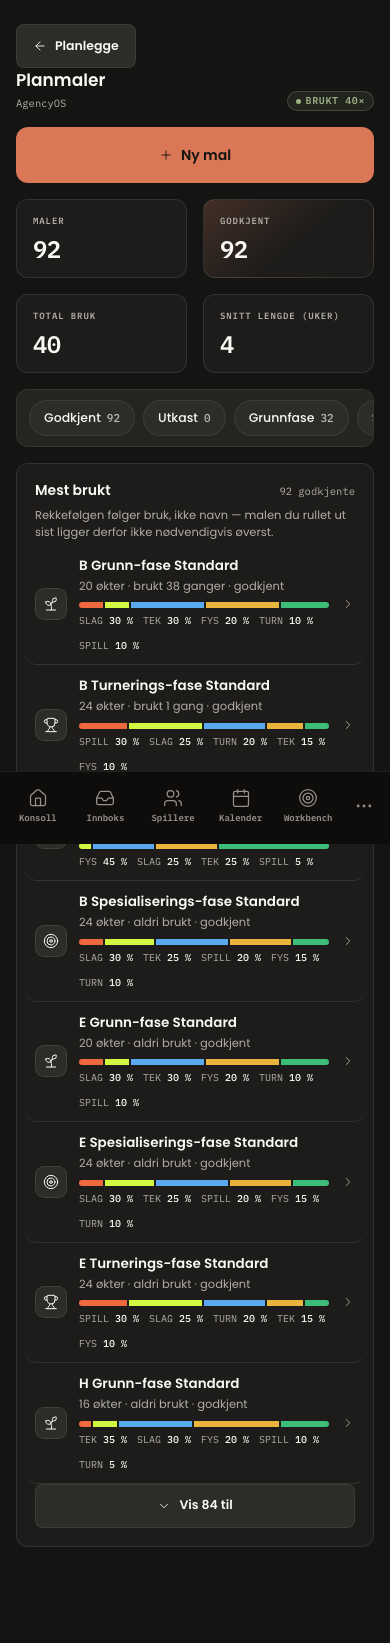
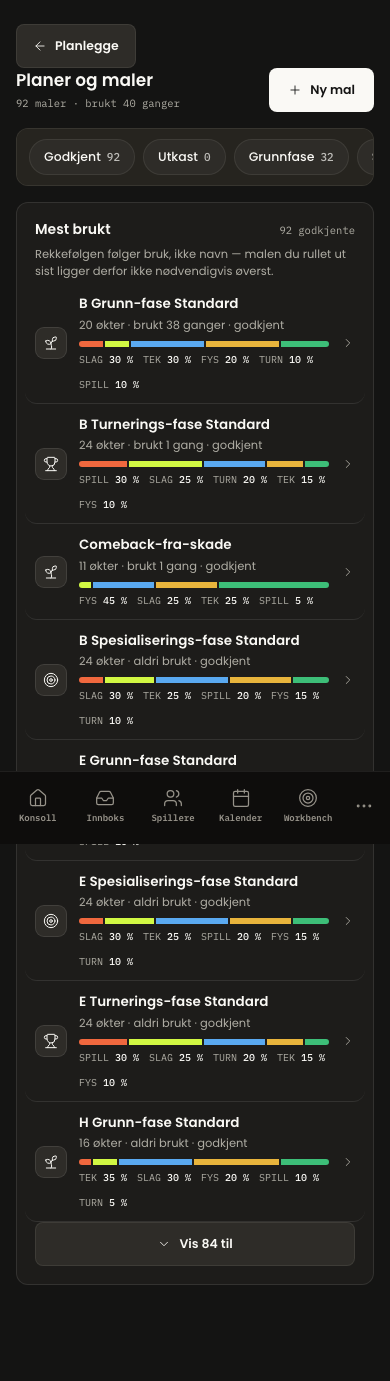
fix(paper): toppen på planbiblioteket følger fasitens .top
Fasiten har tittel + tellende undertittel til venstre og handlingen til
høyre. Appen hadde i tillegg fire KPI-fliser og en oransje full-bredde
CTA over lista — til sammen ca. 300 px krom som dyttet selve biblioteket
under skjermkanten på mobil.

- «Planmaler» / «AgencyOS» → «Planer og maler» / «92 maler · brukt 40 ganger».
  Tallene bor nå i undertittelen, som fasiten, i stedet for i egne fliser.
- «Ny mal» er en vanlig knapp i høyre hjørne, ikke full-bredde aksent.
  Fasitens .top har ingen aksentknapp.
- StatusPill, KpiFlis og CTAPill fjernet fra skjermen (og fra importen).
  snittUker falt bort med flisene.

Fasitens undertittel er «24 maler · 63 aktive planer». «Aktive planer»
krever et nytt oppslag mot TrainingPlan i lasteren, så undertittelen bruker
tall vi allerede har. Ikke gjettet.

Verifisert mot kjørende app: mobil 390 lys og mørk, desktop 1280.

diff --git a/src/components/admin/v2/AdminPlanMalerV2.tsx b/src/components/admin/v2/AdminPlanMalerV2.tsx
@@ -9,10 +9,7 @@ import Link from "next/link";
 import { useState } from "react";
 import {
   Kort,
-  KpiFlis,
-  CTAPill,
   Knapp,
-  StatusPill,
   TomTilstand,
   Icon,
   T,
@@ -302,34 +299,34 @@ export function AdminPlanMalerV2({ data }: { data: AdminPlanMalerData }) {
       (status.length === 0 ||
         status.indexOf(m.godkjent ? STATUS_FILTRE[0] : STATUS_FILTRE[1]) !== -1),
   );
-  const snittUker =
-    total > 0 ? Math.round(data.maler.reduce((s, m) => s + m.varighetUker, 0) / total) : 0;
 
-  // B: status
-  const statusTone = total === 0 ? "warn" : totalBruk > 0 ? "up" : "info";
-  const statusTekst =
-    total === 0 ? "Ingen maler" : totalBruk > 0 ? `Brukt ${totalBruk}×` : pl(total, "mal", "maler");
+  // ── Hode — fasitens `.top` (agencyos-planbibliotek.html) ──────
+  // Tittel + tellende undertittel til venstre, handling til høyre. Fasiten har
+  // verken KPI-fliser eller full-bredde aksentknapp her: tallene bor i
+  // undertittelen, og «Ny mal» er en vanlig knapp. Tidligere lå det fire
+  // KpiFlis og en oransje full-bredde CTA over lista — de dyttet selve
+  // biblioteket under skjermkanten på mobil.
+  const undertittel =
+    total === 0
+      ? "Ingen maler ennå"
+      : `${pl(total, "mal", "maler")} · brukt ${totalBruk} ${totalBruk === 1 ? "gang" : "ganger"}`;
 
-  // ── Hode — B: status ──────────────────────────────────────────
-  const hode = (
-    <div style={{ display: "flex", alignItems: "flex-end", justifyContent: "space-between", gap: 14, flexWrap: "wrap" }}>
-      <div>
-        <div data-paper-pattern-topp data-paper-slug="agencyos-planbibliotek">
-          <h1 style={{ margin: 0, fontFamily: T.disp, fontSize: 17, fontWeight: 600, color: T.fg }}>Planmaler</h1>
-          <span style={{ display: "block", fontFamily: T.mono, fontSize: 10.5, color: T.mut, marginTop: 2 }}>AgencyOS</span>
-        </div>
-      </div>
-      <StatusPill tone={statusTone}>{statusTekst}</StatusPill>
-    </div>
+  const nyMalKnapp = (
+    <Link href="/admin/plan-templates/ny" style={{ textDecoration: "none" }}>
+      <Knapp icon="plus">Ny mal</Knapp>
+    </Link>
   );
 
-  // B: én primær CTA
-  const primaerCta = (
-    <Link href="/admin/plan-templates/ny" style={{ textDecoration: "none", display: "block" }}>
-      <CTAPill icon="plus" full enTing>
-        Ny mal
-      </CTAPill>
-    </Link>
+  const hode = (
+    <div style={{ display: "flex", alignItems: "center", justifyContent: "space-between", gap: 14, flexWrap: "wrap" }}>
+      <div data-paper-pattern-topp data-paper-slug="agencyos-planbibliotek" style={{ minWidth: 0 }}>
+        <h1 style={{ margin: 0, fontFamily: T.disp, fontSize: 17, fontWeight: 600, color: T.fg }}>Planer og maler</h1>
+        <span style={{ display: "block", fontFamily: T.mono, fontSize: 10.5, color: T.mut, marginTop: 2 }}>
+          {undertittel}
+        </span>
+      </div>
+      <div style={{ display: "flex", alignItems: "center", gap: 8, flex: "none" }}>{nyMalKnapp}</div>
+    </div>
   );
 
   if (total === 0) {
@@ -343,20 +340,9 @@ export function AdminPlanMalerV2({ data }: { data: AdminPlanMalerData }) {
             sub="Opprett den første malen for å spare tid når du lager nye planer."
           />
         </Kort>
-        {primaerCta}
       </div>
     );
   }
-
-  // ── KPI-flis (4) ──────────────────────────────────────────────
-  const kpi = (
-    <div className="grid grid-cols-2 lg:grid-cols-4" style={{ gap: T.gap }}>
-      <KpiFlis label="Maler" value={total} />
-      <KpiFlis label="Godkjent" value={totalGodkjent} tint />
-      <KpiFlis label="Total bruk" value={totalBruk} />
-      <KpiFlis label="Snitt lengde (uker)" value={snittUker} />
-    </div>
-  );
 
   // ── Filterrad med tellere — fasitens `.filters` ────────────────
   // Én rad, ikke to merkede grupper: status først, deretter fase.
@@ -439,8 +425,6 @@ export function AdminPlanMalerV2({ data }: { data: AdminPlanMalerData }) {
   return (
     <div style={{ display: "flex", flexDirection: "column", gap: T.gap }}>
       {hode}
-      {primaerCta}
-      {kpi}
       {filtre}
       {liste}
     </div>
